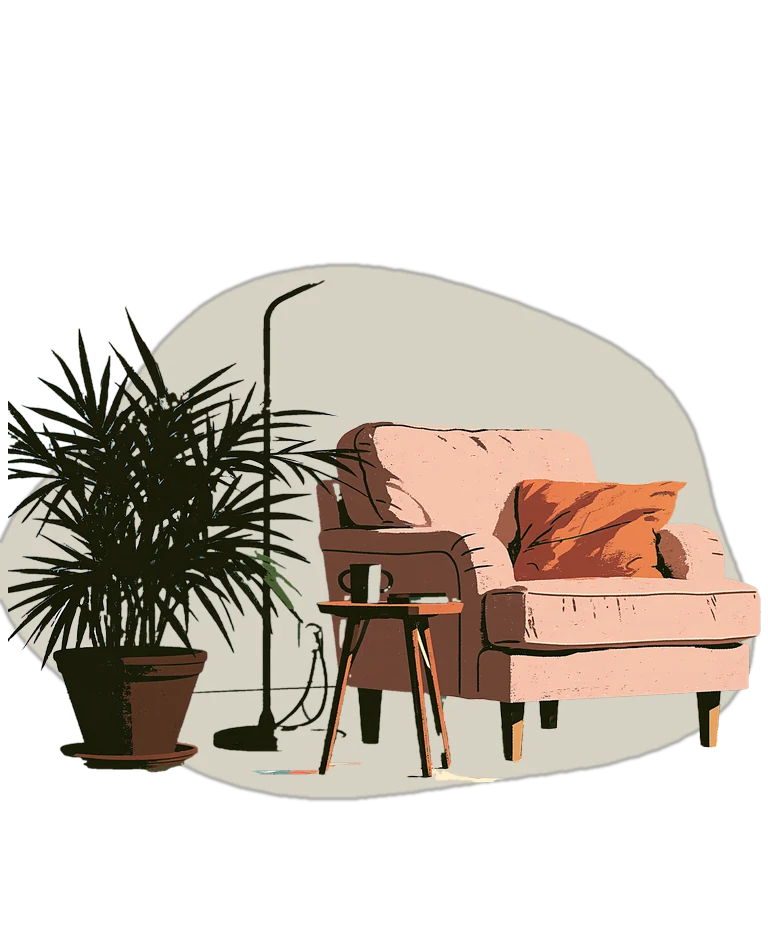
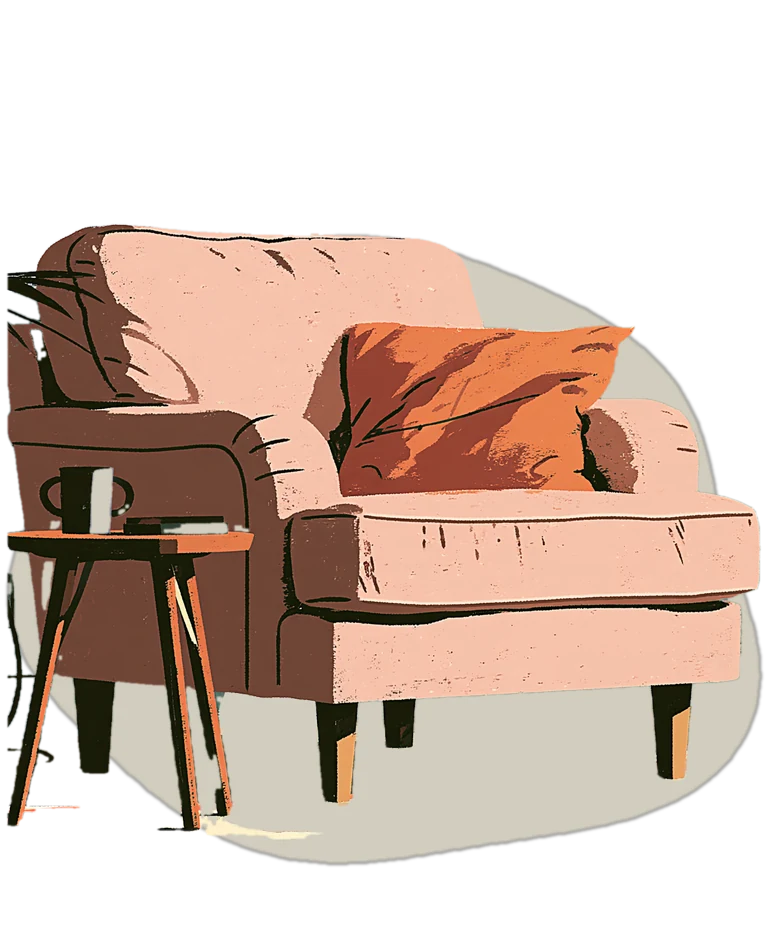
Mistakes Review 1-3: cut-outs repaired, scene plates shown whole
Innes: "fix the front of this character's face and all the bad crop jobs".
pop_plate.PATCHES: committed hand repairs to rembg masks. Part 3 cover gets
his hand and cheek back; Part 1 cover loses a book stack poking out; Part 2
cover pops the people, not the mirror frame; Part 2 Q10 and Part 3 Q12 lose
ragged or edge-sliced fragments. blob() fits inside its box. hs1.Deck(land=)
shows multi-subject scenes whole: Part 2 Q1/Q4/Q5, Part 3 results. Orphan
hero pops deleted.

diff --git a/forbes-english-common-mistakes-review-part2.html b/forbes-english-common-mistakes-review-part2.html
@@ -2544,7 +2544,7 @@ html[data-style="editorial"] .slide[data-wash] .act-word, html[data-style="edito
       </div>
     </section>
 
-    <section class="slide" data-bg="MistakesReview/p2-q1.jpg" data-art-side="left" data-art-pos="0%" data-type="mc">
+    <section class="slide" data-bg="MistakesReview/p2-q1.jpg" data-art-side="left" data-art-fit="land" data-type="mc">
       <div class="slide-head"><div>
         <div class="eyebrow"><span data-i18n="eQ">Mistake check</span> &middot; 1 / 14</div>
         <h2 class="slide-title" data-i18n="mcT">Choose the right answer</h2>
@@ -2598,7 +2598,7 @@ html[data-style="editorial"] .slide[data-wash] .act-word, html[data-style="edito
       </div>
     </section>
 
-    <section class="slide" data-bg="MistakesReview/p2-q4.jpg" data-art-pos="43%" data-type="mc">
+    <section class="slide" data-bg="MistakesReview/p2-q4.jpg" data-art-fit="land" data-type="mc">
       <div class="slide-head"><div>
         <div class="eyebrow"><span data-i18n="eQ">Mistake check</span> &middot; 4 / 14</div>
         <h2 class="slide-title" data-i18n="mcT">Choose the right answer</h2>
@@ -2616,7 +2616,7 @@ html[data-style="editorial"] .slide[data-wash] .act-word, html[data-style="edito
       </div>
     </section>
 
-    <section class="slide" data-bg="MistakesReview/p2-q5.jpg" data-art-side="left" data-art-pos="87%" data-type="mc">
+    <section class="slide" data-bg="MistakesReview/p2-q5.jpg" data-art-side="left" data-art-fit="land" data-type="mc">
       <div class="slide-head"><div>
         <div class="eyebrow"><span data-i18n="eQ">Mistake check</span> &middot; 5 / 14</div>
         <h2 class="slide-title" data-i18n="mcT">Choose the right answer</h2>

diff --git a/forbes-english-common-mistakes-review-part3.html b/forbes-english-common-mistakes-review-part3.html
@@ -2810,7 +2810,7 @@ html[data-style="editorial"] .slide[data-wash] .act-word, html[data-style="edito
       </div>
     </section>
 
-    <section class="slide" data-bg="MistakesReview/p3-results.jpg" data-art-pos="55%" data-type="results">
+    <section class="slide" data-bg="MistakesReview/p3-results.jpg" data-art-fit="land" data-type="results">
       <div class="slide-body" style="align-items:center;text-align:center">
         <div class="score-big"><span id="scoreVal">0</span><span class="dim" style="font-size:34px">/<span id="scoreMax">0</span></span></div>
         <p class="prose" style="margin-top:18px" id="scoreMsg"></p>

diff --git a/tools/pop_plate.py b/tools/pop_plate.py
@@ -42,15 +42,87 @@ def frame_w(narrow):
     return (0.30 if narrow else 0.37) * 1280
 
 
+# Hand repairs to rembg's mask, keyed '<folder>/<plate stem>' (the same key
+# for the 1600px plate and its hd original: points are fractions of the
+# plate). Committed here, not painted into the cache, so a fresh machine or
+# a deleted cache cuts the same way.
+#   ('cut', polygon)              drop from the subject
+#   ('add', polygon)              add to it
+#   ('add', polygon, max_green)   add only pixels whose green is below
+#                                 max_green (skin against a pale wall)
+# Innes, 2026-11-10, of Mistakes Review 3: "fix the front of this
+# character's face" -- his hand and cheek match the sunlit window, and
+# isnet cut them off.
+PATCHES = {
+    'MistakesReview/p3-hero': [
+        ('add', [(.522, .318), (.527, .318), (.534, .334), (.536, .370), (.533, .378), (.522, .378)], 165),
+    ],
+    # a book stack fused to her elbow stuck out of the square's left side
+    'MistakesReview/p1-hero': [
+        ('cut', [(.20, .48), (.345, .48), (.345, .68), (.20, .68)]),
+    ],
+    # the mirror's frame and the door panel rose out of the square as slabs:
+    # only the people pop, the frames stay in the scene behind them
+    'MistakesReview/p2-hero': [
+        ('cut', [(0, 0), (.105, 0), (.105, 1), (0, 1)]),
+        ('cut', [(.105, 0), (.475, 0), (.475, .088), (.105, .088)]),
+        ('cut', [(.451, .088), (.475, .088), (.475, .95), (.451, .95)]),
+        ('cut', [(.485, 0), (.548, 0), (.548, .95), (.485, .95)]),
+        # the floor line under the mirror ran out past the square's left side
+        ('cut', [(.105, .885), (.165, .885), (.165, 1), (.105, 1)]),
+        ('cut', [(.285, .885), (.69, .885), (.69, 1), (.285, 1)]),
+    ],
+    # the palm is cut by the plate's own left edge, so its leaves ended in a
+    # straight line in mid-air; the floor lamp stands inside it. The armchair
+    # and the side table pop alone
+    'MistakesReview/p3-q12': [
+        ('cut', [(0, 0), (.285, 0), (.285, 1), (0, 1)]),
+        ('cut', [(.285, 0), (.37, 0), (.37, .22), (.285, .22)]),
+    ],
+    # the speckled tree, the bare branches and the fence post came out as
+    # ragged fragments: the men, the dog and the cat pop, the rest is scene
+    'MistakesReview/p2-q10': [
+        ('cut', [(0, 0), (.335, 0), (.335, .63), (0, .63)]),
+        ('cut', [(0, .63), (.105, .63), (.105, 1), (0, 1)]),
+        ('cut', [(.845, 0), (1, 0), (1, 1), (.88, 1), (.88, .66), (.845, .66)]),
+    ],
+}
+
+
+def _patch(m, plate):
+    stem = os.path.basename(plate).rsplit('.', 1)[0]
+    folder = os.path.basename(os.path.dirname(os.path.abspath(plate)))
+    # an hd original lives in incoming/hd/<folder>/, so its folder name is the same
+    ops = PATCHES.get('%s/%s' % (folder, stem))
+    if not ops:
+        return m
+    w, h = m.size
+    a = np.asarray(m).copy()
+    px = None
+    for op in ops:
+        pm = Image.new('L', (w, h), 0)
+        ImageDraw.Draw(pm).polygon([(x * w, y * h) for x, y in op[1]], fill=255)
+        sel = np.asarray(pm) > 0
+        if op[0] == 'cut':
+            a[sel] = 0
+        else:
+            if len(op) > 2:
+                if px is None:
+                    px = np.asarray(Image.open(plate).convert('RGB').resize((w, h)))
+                sel &= px[..., 1] < op[2]
+            a[sel] = 255
+    return Image.fromarray(a).filter(ImageFilter.MaxFilter(3)).filter(ImageFilter.MinFilter(3))
+
+
 def mask_for(plate, cache):
     if os.path.exists(cache):
-        return Image.open(cache).convert('L')
+        return _patch(Image.open(cache).convert('L'), plate)
     from rembg import new_session, remove
     m = remove(Image.open(plate).convert('RGB'), session=new_session('isnet-general-use'), only_mask=True)
     # close small holes (chains, spokes) so the risen part is not lace
     m = m.filter(ImageFilter.MaxFilter(5)).filter(ImageFilter.MinFilter(5))
     m.save(cache)
-    return m
+    return _patch(m, plate)
 
 
 def cache_path(plate):
@@ -96,7 +168,13 @@ def blob(box, seed, n=240):
         f = 1 + sum(a * math.sin(k * t + ph) for k, a, ph in waves)
         x, y = rx * f * math.cos(t), ry * f * math.sin(t)
         pts.append((cx + x * math.cos(rot) - y * math.sin(rot), cy + x * math.sin(rot) + y * math.cos(rot)))
-    return pts
+    # the waves push the outline past `box`, and past the picture zone the
+    # blob was sliced flat (Mistakes Review 2 Q10, 2026-11-10): fit it back
+    xs, ys = [p[0] for p in pts], [p[1] for p in pts]
+    fx = (x1 - x0) / (max(xs) - min(xs))
+    fy = (y1 - y0) / (max(ys) - min(ys))
+    mx, my = (max(xs) + min(xs)) / 2, (max(ys) + min(ys)) / 2
+    return [(cx + (px - mx) * fx, cy + (py - my) * fy) for px, py in pts]
 
 
 def build(plate, out, narrow=False, span=None, mode='square', box=None, zone=None):

diff --git a/lesson-template/build/hs1.py b/lesson-template/build/hs1.py
@@ -99,7 +99,7 @@ def _vis(s):
 class Deck:
     def __init__(self, folder, pop=None, ghost=(), hero='hero', cover_mode='square',
                  cover_span=None, cover_box=None, title_px=72, band_pos='center', cover_slot=None, cover_w=40,
-                 cover_name='pop-cover'):
+                 cover_name='pop-cover', land=()):
         """cover_slot: the plate the cover pops out, when the hero is a scene
         with no one object in it (rembg then cuts a fragment). The hero still
         gives the texture field and the phone band."""
@@ -109,6 +109,12 @@ class Deck:
         self.cover_name = cover_name
         self.pop = dict(pop or {})
         self.ghosts = set(ghost)
+        # plates shown whole in their 16:9 shape, never cropped: scenes whose
+        # subject is several things across the plate (a face and an alarm
+        # clock, a bride and a doctor), where fit() centres on one of them
+        # and cuts through the rest (Innes, 2026-11-10: "all the bad crop
+        # jobs you did")
+        self.land = set(land)
         self.hero = hero
         self.cover_mode, self.cover_span, self.cover_box = cover_mode, cover_span, cover_box
         self.title_px, self.band_pos, self.cover_w = title_px, band_pos, cover_w
@@ -214,7 +220,7 @@ class Deck:
             side, pos, shape = None, None, 'pop'
         fit = None
         if shape is None and pos is None:
-            pos, fit = self.fit(slot, size)
+            pos, fit = (None, 'land') if slot in self.land else self.fit(slot, size)
         if slot in self.ghosts and shape != 'pop':
             attrs += self._ghost(slot, side, pos, size)
         if side == 'left':

diff --git a/lesson-template/build/build_mistakes_review.py b/lesson-template/build/build_mistakes_review.py
@@ -333,12 +333,17 @@ PLATES = {
 POP = {1: {'hero': (None, 'square'), 'q4': (None, 'free')},
        2: {'hero': (None, 'square'), 'q10': (None, 'blob')},
        3: {'hero': (None, 'square'), 'q12': (None, 'free')}}
+# shown whole: a crop centred on one part of the scene cut through the rest
+# (q4 halved her face to keep the eye; q5 lost the father and the bouquet;
+# q1 the phone; results the eraser)
+LAND = {2: ('q1', 'q4', 'q5'), 3: ('results',)}
 
 
 def slides(n, spec, E):
     p = 'p%d-' % n
     K = hs1.Deck(F, pop={p + k: v for k, v in POP[n].items()}, hero=p + 'hero',
-                 cover_name='pop-cover-p%d' % n, title_px=52, cover_w=44)
+                 cover_name='pop-cover-p%d' % n, title_px=52, cover_w=44,
+                 land=[p + k for k in LAND.get(n, ())])
     s = [K.cover(E, [('Level', E['chipLevel']), ('Focus', E['chipFocus']), ('Count', E['chipCount'])]),
          K.frame(K.talk('eW', 'tkT', spec['talk'], E), p + 'talk')]
     K.stage()

diff --git a/docs/HANDOFF.md b/docs/HANDOFF.md
@@ -10,6 +10,32 @@ session can read it.
 deltas are listed at the bottom of this file. Follow the deltas over the
 stale copy.
 ---
+## 2026-11-10 — Mistakes Review 1-3: cut-outs repaired, scene plates shown whole: SHIPPED
+
+Innes: "fix the front of this character's face and all the bad crop jobs".
+Audited every pop and every framed crop in the three decks on PIL sheets.
+
+- **Masks are now patchable, in git.** `tools/pop_plate.py` `PATCHES` holds
+  hand repairs keyed `<folder>/<plate>` (fractions of the plate, so the hd
+  original and the served plate share them): `cut` / `add` polygons, and an
+  `add` that only takes pixels below a green value (skin against a pale
+  wall). Applied on top of the cached mask, so a wiped cache cuts the same.
+- Repairs: Part 3 cover, his hand and cheek (isnet read them as the sunlit
+  window); Part 1 cover, a book stack that stuck out left of the square;
+  Part 2 cover, the mirror frame and door panel rose as slabs (people only
+  now); Part 2 Q10, ragged tree/branches/post fragments; Part 3 Q12, a palm
+  sliced by the plate's own edge (chair and table pop alone).
+- `blob()` now fits its wobble back inside its box: blob backdrops were
+  being sliced flat at the picture zone's edge.
+- `hs1.Deck(land=...)` shows named plates whole (16:9) instead of `fit()`'s
+  crop, for scenes with several subjects: Part 2 Q1, Q4 (face halved), Q5
+  (father and bouquet lost); Part 3 results (eraser lost).
+- The three `pop-p*-hero.webp` were orphans (no page referenced them):
+  deleted.
+- **Not audited:** pops and crops in other HS1 decks. The crop-sheet method
+  (simulate `background-size: cover` + `data-art-pos` per slide in PIL) is
+  quick; worth running deck by deck.
+
 ## 2026-11-10 — Block Camp: a translation is the whole sentence, never a gap
 
 Innes: *"The Block Camp translations should not have a gap in them to be
